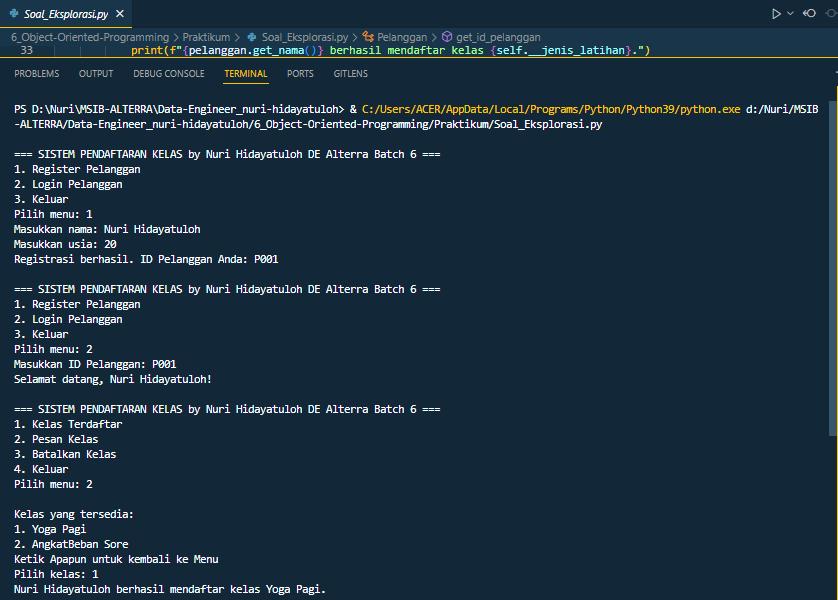
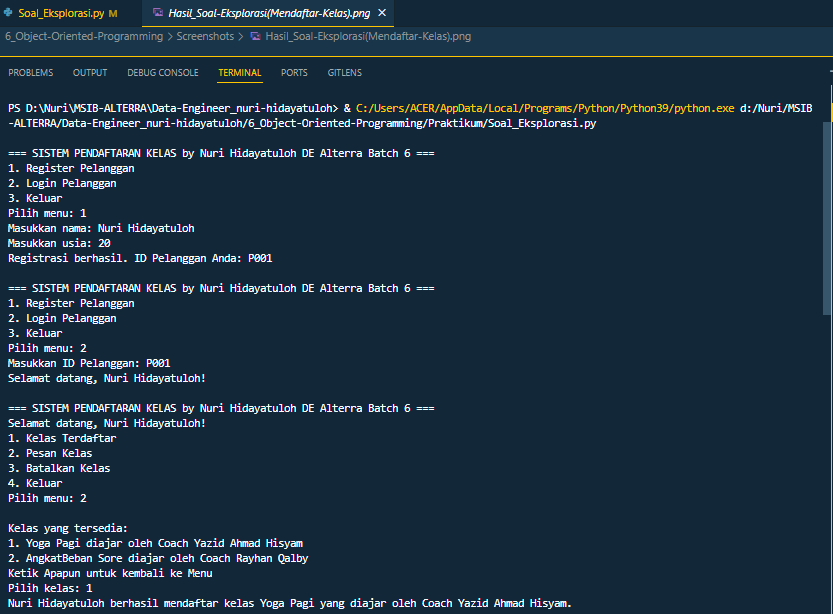
Perubahan pada Soal Eksplorasi

Changed region(s): [[0.0, 0.0, 1.0, 1.0], [0.9052, 0.0, 1.0, 0.03]]

diff --git a/6_Object-Oriented-Programming/Praktikum/Soal_Eksplorasi.py b/6_Object-Oriented-Programming/Praktikum/Soal_Eksplorasi.py
@@ -1,3 +1,49 @@
+# Membuat kelas Pelatih
+class Pelatih:
+    def __init__(self, nama, spesialisasi, tahun_pengalaman):
+        self.__nama = nama
+        self.__spesialisasi = spesialisasi
+        self.__tahun_pengalaman = tahun_pengalaman
+
+    def get_nama(self):
+        return self.__nama
+
+    def get_spesialisasi(self):
+        return self.__spesialisasi
+
+    def get_tahun_pengalaman(self):
+        return self.__tahun_pengalaman
+
+# Membuat kelas KelasLatihan sebagai anak class dari Pelatih
+class KelasLatihan(Pelatih):
+    def __init__(self, jenis_latihan, jadwal, kapasitas, pelatih):
+        # Memanggil konstruktor dari class induk (Pelatih)
+        super().__init__(pelatih.get_nama(), pelatih.get_spesialisasi(), pelatih.get_tahun_pengalaman())
+        self.__jenis_latihan = jenis_latihan
+        self.__jadwal = jadwal
+        self.__kapasitas = kapasitas
+        self.__peserta_terdaftar = set()
+
+    def tampilkanInfo(self):
+        print(f"| Jenis Latihan: {self.__jenis_latihan}")
+        print(f"| Jadwal: {self.__jadwal}")
+        print(f"| Kapasitas: {self.__kapasitas} orang")
+        print(f"| Pelatih: {super().get_nama()} (Spesialisasi: {super().get_spesialisasi()}, Pengalaman: {super().get_tahun_pengalaman()} tahun)")
+
+    def pesanKelas(self, pelanggan):
+        if len(self.__peserta_terdaftar) < self.__kapasitas:
+            self.__peserta_terdaftar.add(pelanggan)
+            print(f"{pelanggan.get_nama()} berhasil mendaftar kelas {self.__jenis_latihan} yang diajar oleh {super().get_nama()}.")
+        else:
+            print(f"Kelas {self.__jenis_latihan} yang diajar oleh {super().get_nama()} sudah penuh. {pelanggan.get_nama()} tidak dapat mendaftar.")
+
+    def batalkanKelas(self, pelanggan):
+        if pelanggan in self.__peserta_terdaftar:
+            self.__peserta_terdaftar.remove(pelanggan)
+            print(f"{pelanggan.get_nama()} berhasil membatalkan kelas {self.__jenis_latihan} yang diajar oleh {super().get_nama()}.")
+        else:
+            print(f"{pelanggan.get_nama()} tidak terdaftar pada kelas {self.__jenis_latihan} yang diajar oleh {super().get_nama()}.")
+
 # Membuat kelas Pelanggan
 class Pelanggan:
     def __init__(self, nama, usia, id_pelanggan):
@@ -13,34 +59,6 @@ class Pelanggan:
 
     def get_id_pelanggan(self):
         return self.__id_pelanggan
-
-# Membuat kelas KelasLatihan
-class KelasLatihan:
-    def __init__(self, jenis_latihan, jadwal, kapasitas):
-        self.__jenis_latihan = jenis_latihan
-        self.__jadwal = jadwal
-        self.__kapasitas = kapasitas
-        self.__peserta_terdaftar = set()
-
-    def tampilkanInfo(self):
-        print(f"Jenis Latihan: {self.__jenis_latihan}")
-        print(f"Jadwal: {self.__jadwal}")
-        print(f"Kapasitas: {self.__kapasitas} orang")
-
-    def pesanKelas(self, pelanggan):
-        if len(self.__peserta_terdaftar) < self.__kapasitas:
-            self.__peserta_terdaftar.add(pelanggan)
-            print(f"{pelanggan.get_nama()} berhasil mendaftar kelas {self.__jenis_latihan}.")
-        else:
-            print(f"Kelas {self.__jenis_latihan} sudah penuh. {pelanggan.get_nama()} tidak dapat mendaftar.")
-
-    def batalkanKelas(self, pelanggan):
-        if pelanggan in self.__peserta_terdaftar:
-            self.__peserta_terdaftar.remove(pelanggan)
-            print(f"{pelanggan.get_nama()} berhasil membatalkan kelas {self.__jenis_latihan}.")
-        else:
-            print(f"{pelanggan.get_nama()} tidak terdaftar pada kelas {self.__jenis_latihan}.")
-
 
 # Membuat kelas ManajemenPelanggan
 class ManajemenPelanggan:
@@ -65,8 +83,14 @@ class ManajemenPelanggan:
 # Fungsi utama Program
 def main():
     manajemen_pelanggan = ManajemenPelanggan()
-    yoga_kelas = KelasLatihan("Yoga Pagi", "Senin", 10)
-    angkat_beban_kelas = KelasLatihan("AngkatBeban Sore", "Selasa", 8)
+    
+    # Membuat objek Pelatih
+    pelatih_yoga = Pelatih("Coach Yazid Ahmad Hisyam", "Yoga", 5)
+    pelatih_angkat_beban = Pelatih("Coach Rayhan Qalby", "Angkat Beban", 3)
+
+    # Membuat objek KelasLatihan dengan memasukkan objek Pelatih sebagai parameter
+    yoga_kelas = KelasLatihan("Yoga Pagi", "Senin", 10, pelatih_yoga)
+    angkat_beban_kelas = KelasLatihan("AngkatBeban Sore", "Selasa", 8, pelatih_angkat_beban)
 
     pelanggan_terlogin = None
 
@@ -74,7 +98,7 @@ def main():
         print("\n=== SISTEM PENDAFTARAN KELAS by Nuri Hidayatuloh DE Alterra Batch 6 ===")
 
         if pelanggan_terlogin:
-            # Jika pelanggan sudah login, tampilkan menu khusus
+            print(f"Selamat datang, {pelanggan_terlogin.get_nama()}!")
             print("1. Kelas Terdaftar")
             print("2. Pesan Kelas")
             print("3. Batalkan Kelas")
@@ -82,18 +106,20 @@ def main():
             pilihan = input("Pilih menu: ")
 
             if pilihan == "1":
-                # Informasi Kelas Terdaftar berdasarkan ID Pelanggan
                 print("\nKelas yang terdaftar:")
                 for peserta in yoga_kelas._KelasLatihan__peserta_terdaftar:
-                    print(f"- {peserta.get_nama()} (Yoga Pagi)")
+                    print(f"|- {peserta.get_nama()} (Yoga Pagi)")
+                    print(f"|=============================================================================|")
+                    yoga_kelas.tampilkanInfo()
                 for peserta in angkat_beban_kelas._KelasLatihan__peserta_terdaftar:
                     print(f"- {peserta.get_nama()} (AngkatBeban Sore)")
+                    print(f"|=============================================================================|")
+                    angkat_beban_kelas.tampilkanInfo()
 
             elif pilihan == "2":
-                # Pesan Kelas
                 print("\nKelas yang tersedia:")
-                print("1. Yoga Pagi")
-                print("2. AngkatBeban Sore")
+                print(f"1. Yoga Pagi diajar oleh {pelatih_yoga.get_nama()}")
+                print(f"2. AngkatBeban Sore diajar oleh {pelatih_angkat_beban.get_nama()}")
                 print("Ketik Apapun untuk kembali ke Menu")
                 kelas = input("Pilih kelas: ")
 
@@ -105,12 +131,11 @@ def main():
                     print("Kelas tidak valid.")
 
             elif pilihan == "3":
-                # Batalkan Kelas
                 print("\nKelas yang terdaftar:")
                 for peserta in yoga_kelas._KelasLatihan__peserta_terdaftar:
-                    print(f"- {peserta.get_nama()} (Yoga Pagi)")
+                    print(f"- {peserta.get_nama()} (Yoga Pagi) diajar oleh {pelatih_yoga.get_nama()}")
                 for peserta in angkat_beban_kelas._KelasLatihan__peserta_terdaftar:
-                    print(f"- {peserta.get_nama()} (AngkatBeban Sore)")
+                    print(f"- {peserta.get_nama()} (AngkatBeban Sore) diajar oleh {pelatih_angkat_beban.get_nama()}")
 
                 id_pelanggan = input("\nMasukkan ID Pelanggan yang akan membatalkan kelas: ")
                 if id_pelanggan == pelanggan_terlogin.get_id_pelanggan():
@@ -121,7 +146,6 @@ def main():
                     print("ID Pelanggan tidak terdaftar pada kelas manapun.")
 
             elif pilihan == "4":
-                # Keluar
                 print("Terima kasih!")
                 break
 
@@ -129,7 +153,6 @@ def main():
                 print("Pilihan tidak valid. Silakan pilih kembali.")
 
         else:
-            # Jika pelanggan belum login, tampilkan menu lengkap
             print("1. Register Pelanggan")
             print("2. Login Pelanggan")
             print("3. Keluar")
@@ -145,13 +168,11 @@ def main():
                 pelanggan_terlogin = manajemen_pelanggan.loginPelanggan(id_pelanggan)
 
             elif pilihan == "3":
-                # Keluar
                 print("Terima kasih!")
                 break
 
             else:
                 print("Pilihan tidak valid. Silakan pilih kembali.")
-
 
 if __name__ == "__main__":
     main()
